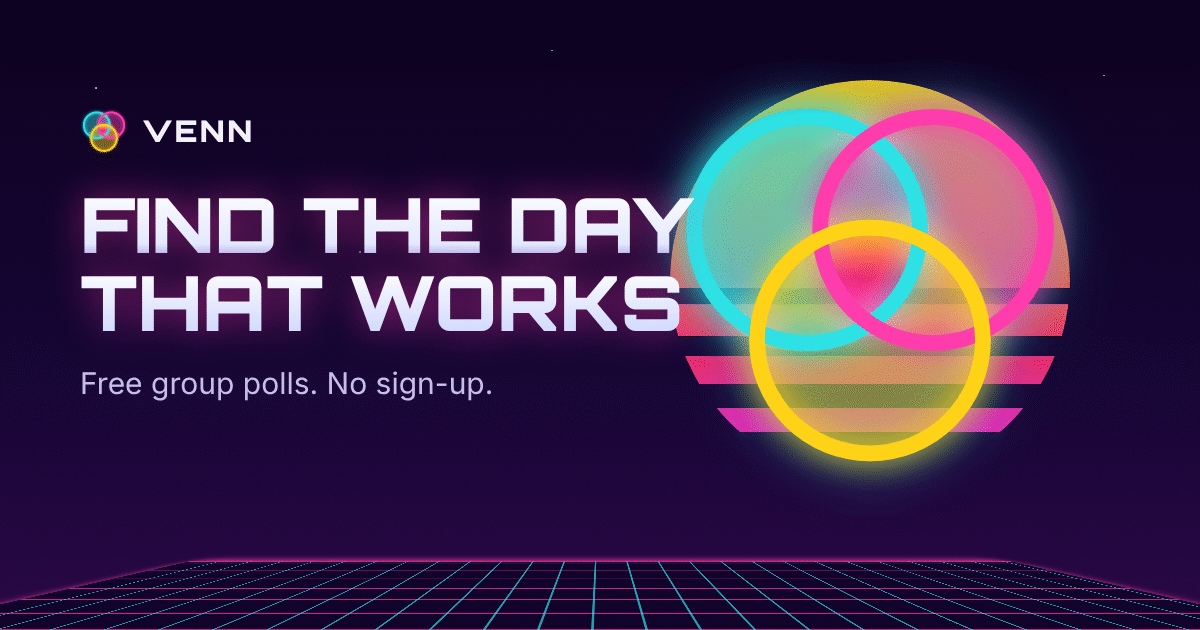
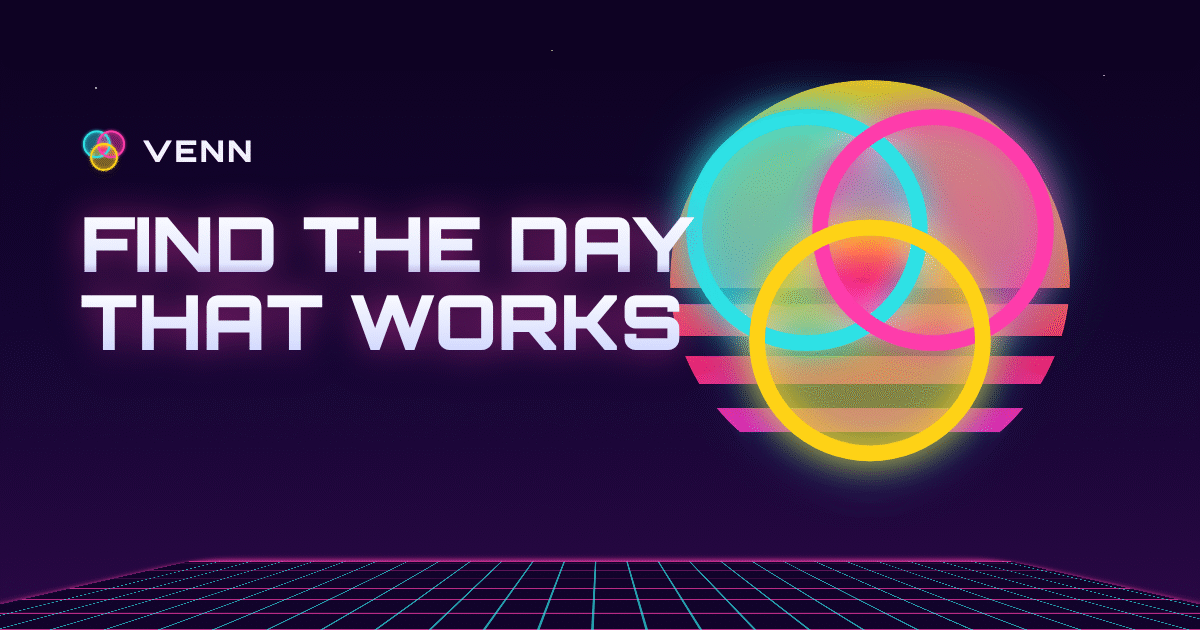
Shorter link preview for the site: one headline, short title and description (#145)
Claude-Session: https://claude.ai/code/session_01Gs91QXj7zkSGyaZWcmSRwz

diff --git a/scripts/og-image.js b/scripts/og-image.js
@@ -5,7 +5,7 @@
 //   public/og/<section>-<slug>.png  the landing pages in pages/pages.js
 // Needs Playwright's Chromium (`npx playwright install chromium`, or set CHROMIUM_PATH). Matches
 // DESIGN.md: warm paper, the serif, the Venn circles, and Finn the dog. Chat apps show these small,
-// so the words are big and few.
+// so the words are big and few: the site's own two are just the logo and one headline.
 
 import { execFileSync } from 'node:child_process';
 import { mkdirSync, readFileSync, statSync } from 'node:fs';
@@ -114,8 +114,8 @@ const confetti = [
 const IMAGES = {
   // The site's own preview: just the circles, no Finn.
   'og.png': page({
-    headline: 'Find the day that works for <em>everyone.</em>',
-    line: '<p>Free group polls. No sign-up.</p>',
+    headline: 'Find the day that <em>works.</em>',
+    line: '',
     finn: false,
   }),
   'og-set.png': page({
@@ -126,7 +126,7 @@ const IMAGES = {
   }),
   'og-retro.png': retroPage({
     headline: 'Find the day that works',
-    line: '<p>Free group polls. No sign-up.</p>',
+    line: '',
     finn: false,
   }),
   'og-set-retro.png': retroPage({

diff --git a/src/preview.js b/src/preview.js
@@ -8,17 +8,17 @@ import { imagePath } from './images.js';
 // Static images, rendered by `npm run og` (scripts/og-image.js): one to ask, one once it's set,
 // and both again for polls in the retro look.
 export const OG_IMAGES = {
-  vote: { path: '/og.png', alt: 'Venn: find the day that works for everyone' },
+  vote: { path: '/og.png', alt: 'Venn: find the day that works' },
   set: { path: '/og-set.png', alt: "Venn: it's set" },
-  retroVote: { path: '/og-retro.png', alt: 'Venn: find the day that works for everyone' },
+  retroVote: { path: '/og-retro.png', alt: 'Venn: find the day that works' },
   retroSet: { path: '/og-set-retro.png', alt: "Venn: it's set" },
 };
 
 // For a poll that doesn't exist (any more): the same as the home page's.
 const GENERIC = {
   pageTitle: 'Venn: find a time that works',
-  title: 'Venn: find the day that works for everyone',
-  description: 'Free polls for dinners, book clubs and trips. Share one link and see which day works for everyone.',
+  title: 'Venn: find the day that works',
+  description: 'Free group polls. No sign-up.',
   image: OG_IMAGES.vote,
 };
 

diff --git a/public/index.html b/public/index.html
@@ -15,11 +15,8 @@
     <meta property="og:type" content="website" />
     <meta property="og:site_name" content="Venn" />
     <meta property="og:url" content="https://venn.day/" />
-    <meta property="og:title" content="Venn: find the time that works for everyone" />
-    <meta
-      property="og:description"
-      content="Free polls for dinners, book clubs and trips. Share one link and see which day works for everyone."
-    />
+    <meta property="og:title" content="Venn: find the day that works" />
+    <meta property="og:description" content="Free group polls. No sign-up." />
     <meta property="og:image" content="https://venn.day/og-retro.png" />
     <meta property="og:image:width" content="1200" />
     <meta property="og:image:height" content="630" />

diff --git a/test/preview.test.js b/test/preview.test.js
@@ -240,7 +240,7 @@ async function checkServer(fetchPath, origin, { home: servesHome = true } = {}) 
   const unknown = await page('doesnotexist');
   assert.equal(titleOf(unknown), 'Venn: find a time that works');
   assert.equal(meta(unknown, 'og:image'), `${origin}/og.png`);
-  assert.equal(meta(unknown, 'og:title'), 'Venn: find the day that works for everyone');
+  assert.equal(meta(unknown, 'og:title'), 'Venn: find the day that works');
 }
 
 let server, baseUrl;

diff --git a/DESIGN.md b/DESIGN.md
@@ -81,7 +81,7 @@ Lines stay under 65 characters. Italic serif is the only emphasis inside headlin
 
   All are drawn on a 16 px grid so they stay sharp in a browser tab. The home-screen icon (`icons/icon.svg`) puts the logo on `--paper`, inside the maskable safe zone. When an icon changes, bump the `?v=` on the icon links so browsers drop their cached copy.
 
-- **Link previews** (1200×630, `npm run og` renders them from HTML in `scripts/og-image.js`): `og.png` for the home page and polls still asking ("Find the day that works for everyone."), `og-set.png` for polls whose date is picked ("It's set."). Both are the logo drawn large with Finn the dog (`img/dog.webp`) standing where the circles meet, on `--paper`, with a serif headline big enough to read as a thumbnail. Each poll's own title and date are text tags beside the image (`src/preview.js`), never drawn into it. The website's own preview is `og-retro.png`, retro being its default look; `venn.day/classic`, the home page in the classic look, previews with `og.png` (the Worker serves it). A poll in the retro look shares `og-retro.png` / `og-set-retro.png` instead: the synthwave night, a striped sun over a neon grid, chrome Orbitron capitals and the neon logo (Finn on the "It's set" one, smooth as ever). A poll's own picture card follows its look too: drawn in neon when the retro look is on, and drawn again when the organizer switches it on the poll.
+- **Link previews** (1200×630, `npm run og` renders them from HTML in `scripts/og-image.js`): `og.png` for the home page and polls still asking ("Find the day that works."), `og-set.png` for polls whose date is picked ("It's set."). Both are the logo drawn large with Finn the dog (`img/dog.webp`) standing where the circles meet, on `--paper`, with a serif headline big enough to read as a thumbnail. The site's own two (`og.png`, `og-retro.png`) are only the logo and that one headline, no subtitle, and the home page's tags stay as short ("Venn: find the day that works", "Free group polls. No sign-up."): chat apps show them small. Each poll's own title and date are text tags beside the image (`src/preview.js`), never drawn into it. The website's own preview is `og-retro.png`, retro being its default look; `venn.day/classic`, the home page in the classic look, previews with `og.png` (the Worker serves it). A poll in the retro look shares `og-retro.png` / `og-set-retro.png` instead: the synthwave night, a striped sun over a neon grid, chrome Orbitron capitals and the neon logo (Finn on the "It's set" one, smooth as ever). A poll's own picture card follows its look too: drawn in neon when the retro look is on, and drawn again when the organizer switches it on the poll.
 - The GitHub mark (Octicons, official) appears only on links to the repository.
 - **The hero's group chat** is the story: chat bubbles, each with who sent it and tilted, bounce around going round in circles ("wait which week", "can't do Thu 😩", "oh wait, no", "did we pick a day"), then fly to the friend who sent them and the circles meet on the day that works. The home page has no separate group-chat section. Template pages still show a group-chat card next to a result card, built in HTML and CSS, one `role="img"` with a description. The landing page has no product screenshots.
 - Example names: use **Rosa's** for the restaurant ("Dinner at Rosa's"), and Priya, Marcus, Ana, Jordan and Lee for people.
